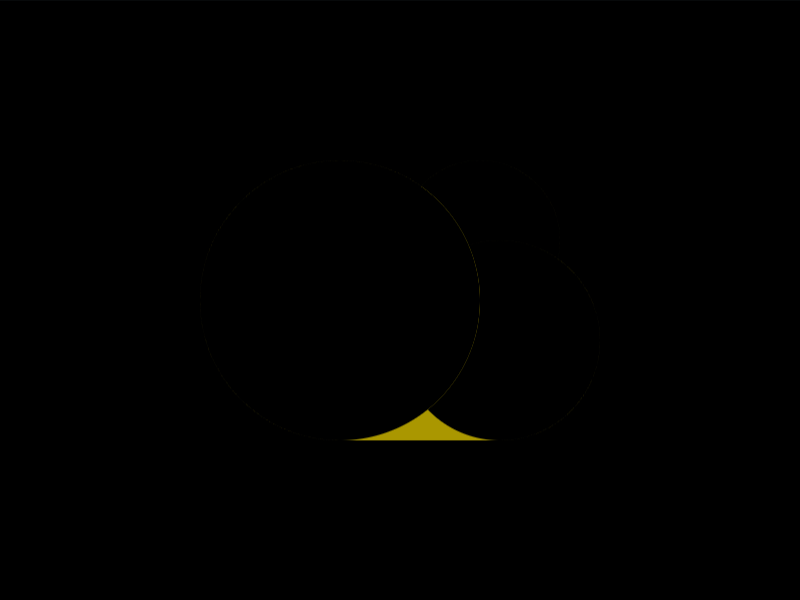
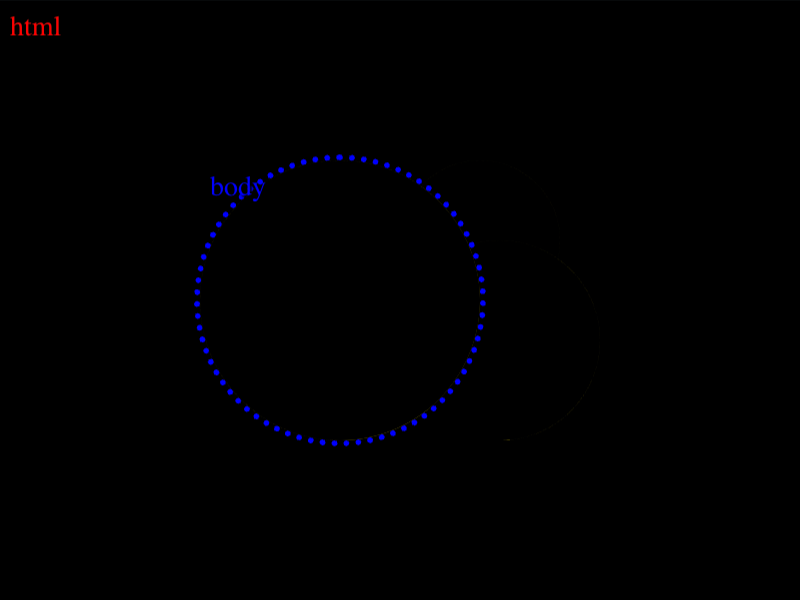
Score: 597.83, Characters: 185 (99.90% match) - CSSHub

diff --git a/Daily Targets/2026-09-03/README.md b/Daily Targets/2026-09-03/README.md
@@ -22,34 +22,27 @@ Challenge: <https://cssbattle.dev/play/4Vcs99dhGoi89v5nqX2E>
 ## Code
 
 ```html
-<style>
-&{
- border-radius:9in;
-  background:#DDDEEB;
-  margin:80 160 80 100;
-
-  box-shadow:
-    80px 20px 0 -20px #DDDEEB,
-    70px -30px 0 -30px #7F8AE9,
-    0 0 0 9in #3246DE
-    ;
-
-}
+<style>&{background:#3246DE;*{border-radius:9in;margin:80 160 80 100;color:#DDDEEB;box-shadow:inset 1in 2in,5pc 5vw 0-5vw,5ch 30px 0-10px,70px -30px 0-30px#7F8AE9;clip-path:inset(0-25vw
 ```
 
 ## Prettified code
 
 ```html
 <style>
-&{
- border-radius:9in;
-  background:#DDDEEB;
-  margin:80 160 80 100;
-  box-shadow:
-    80px 20px 0 -20px #DDDEEB,
-    70px -30px 0 -30px #7F8AE9,
-    0 0 0 9in #3246DE
-    ;
-
+& {
+  background: #3246de;
+  * {
+    border-radius: 9in;
+    margin: 80 160 80 100;
+    color: #dddeeb;
+    box-shadow:
+      inset 1in 2in,
+      5pc 5vw 0 -5vw,
+      5ch 30px 0 -10px,
+      70px -30px 0 -30px #7f8ae9;
+    clip-path: inset(0 -25vw);
+  }
 }
+
+</style>
 ```
